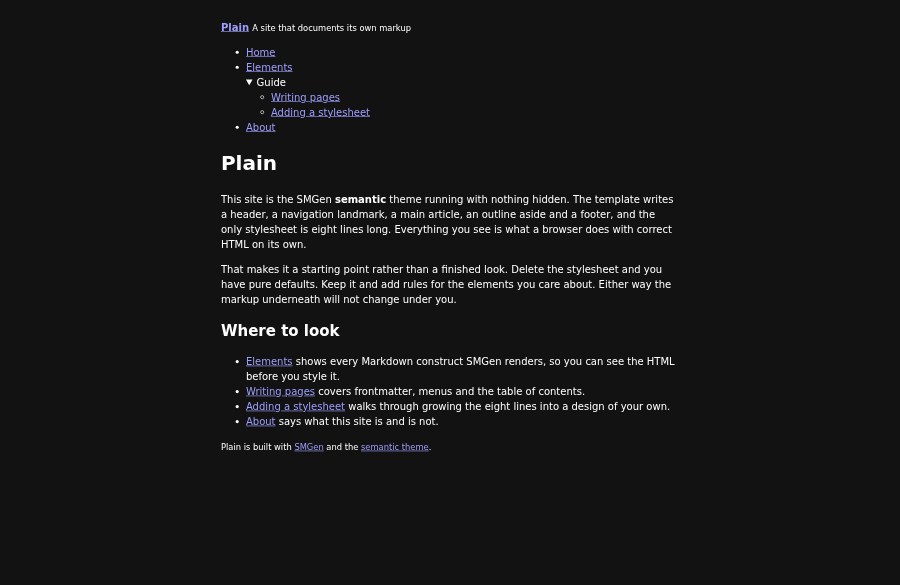
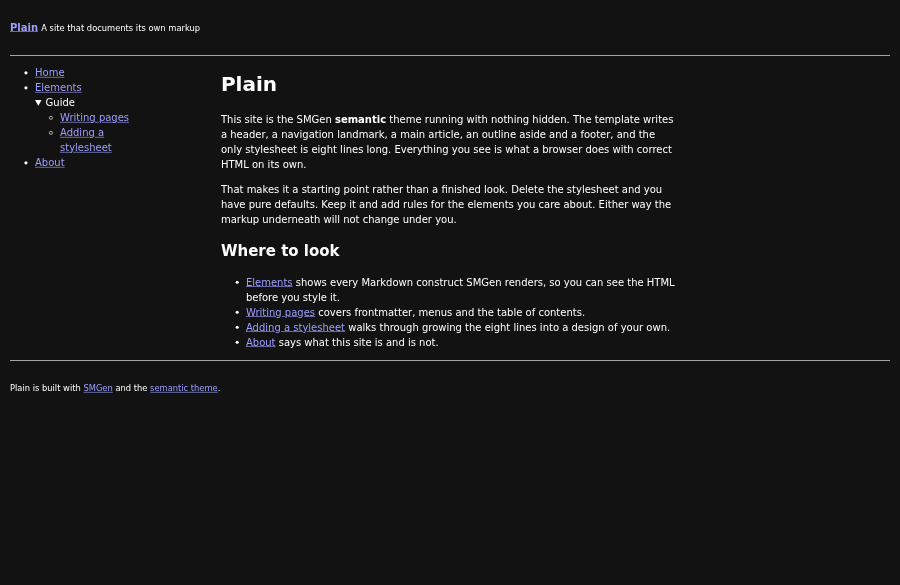
Lay the semantic theme out in three columns

diff --git a/themes/semantic/static/base.css b/themes/semantic/static/base.css
@@ -1,7 +1,19 @@
-/* Plain: the whole stylesheet. Delete it for pure browser defaults. */
+/* Plain: the whole stylesheet. Delete it and the page still reads, top to bottom. */
 :root { color-scheme: light dark; }
-body { max-width: 72ch; margin: 0 auto; padding: 1rem; line-height: 1.5; font-family: system-ui, sans-serif; }
+body { margin: 0 auto; max-width: 90rem; padding: 0 1rem; line-height: 1.5; font-family: system-ui, sans-serif; }
+body > header { padding: 1rem 0; border-bottom: 1px solid; }
+body > footer { padding: 1rem 0; border-top: 1px solid; }
+main { max-width: 72ch; }
 img, svg, video { max-width: 100%; height: auto; }
 pre { overflow: auto; }
-td, th { padding: 0.25em 0.6em; border: 1px solid; }
 table { border-collapse: collapse; }
+td, th { padding: 0.25em 0.6em; border: 1px solid; }
+@media (min-width: 64rem) {
+  body { display: grid; grid-template-columns: 14rem minmax(0, 1fr) 14rem; grid-template-areas: "header header header" "nav main aside" "footer footer footer"; column-gap: 2rem; }
+  body > header { grid-area: header; }
+  body > nav { grid-area: nav; }
+  main { grid-area: main; justify-self: center; width: 100%; }
+  body > aside { grid-area: aside; }
+  body > footer { grid-area: footer; }
+  body > nav, body > aside { position: sticky; top: 0; align-self: start; max-height: 100vh; overflow: auto; }
+}

diff --git a/themes/semantic/templates/page.php b/themes/semantic/templates/page.php
@@ -1,10 +1,12 @@
 <?php
 
 /**
- * Renders a page as plain semantic HTML: header with the site menu, main with
- * the article and breadcrumbs, an aside for the outline, and a footer. The
- * template adds no class names of its own; the only classes on the page come
- * from SMGen's menu and breadcrumb helpers.
+ * Renders a page as plain semantic HTML in the classic three-column shape:
+ * header across the top, nav on the left, main with the article and
+ * breadcrumbs in the middle, an aside with the outline on the right, and a
+ * footer across the bottom. The stylesheet places them on a grid; without it
+ * they stack in reading order. The template adds no class names of its own;
+ * the only classes on the page come from SMGen's menu and breadcrumb helpers.
  */
 
 $leftBarShow = $frontmatter['leftBarShow'] ?? true;
@@ -42,24 +44,24 @@ $endfor$
 <body>
 	<header>
 		<p><a href="<?=escapeHtml(resolveAssetUrl('/'))?>"><strong><?=escapeHtml(getConf('PRODUCT_NAME'))?></strong></a><?php if(getConf('TAGLINE')): ?> <small><?=escapeHtml(getConf('TAGLINE'))?></small><?php endif; ?></p>
-		<?php if($leftBarShow && menuRegionExists('header')): ?>
-		<nav aria-label="Site">
-			<?php renderMenuRegion('header'); ?>
-		</nav>
-		<?php endif; ?>
 	</header>
+	<?php if($leftBarShow && menuRegionExists('header')): ?>
+	<nav aria-label="Site">
+		<?php renderMenuRegion('header'); ?>
+	</nav>
+	<?php endif; ?>
 	<main id="content">
 		<article>
 			<?php renderBreadcrumbs(['menu' => 'site']); ?>
 			$body$
 		</article>
-		$if(toc)$
-		<aside aria-label="On this page">
-			<h2>On this page</h2>
-			${toc}
-		</aside>
-		$endif$
 	</main>
+	$if(toc)$
+	<aside aria-label="On this page">
+		<h2>On this page</h2>
+		${toc}
+	</aside>
+	$endif$
 	<footer>
 		<p><small><?=escapeHtml(getConf('PRODUCT_NAME'))?> is built with <a href="https://seanmorris.github.io/smgen/">SMGen</a> and the <a href="https://seanmorris.github.io/smgen-extras/themes.html#semantic">semantic theme</a>.</small></p>
 	</footer>

diff --git a/pages/index.md b/pages/index.md
@@ -38,7 +38,7 @@ jsonld:
 <li><a href="themes/journal/" target="_blank" rel="noopener noreferrer"><img class="preview preview--dark" src="previews/theme-journal-dark.png" width="900" height="585" alt="Commonplace journal home page" loading="lazy"><img class="preview preview--light" src="previews/theme-journal-light.png" width="900" height="585" alt="Commonplace journal home page" loading="lazy"><span class="preview-body"><strong>Journal</strong><span>Dated entries listed from their frontmatter, topic pages and an RSS feed. Shown as Commonplace.</span><small class="package">smgen-theme-journal</small></span></a></li>
 <li><a href="themes/portfolio/" target="_blank" rel="noopener noreferrer"><img class="preview preview--dark" src="previews/theme-portfolio-dark.png" width="900" height="585" alt="Halden Bindery portfolio home page" loading="lazy"><img class="preview preview--light" src="previews/theme-portfolio-light.png" width="900" height="585" alt="Halden Bindery portfolio home page" loading="lazy"><span class="preview-body"><strong>Portfolio</strong><span>A statement, a grid of work with drawn covers, and project pages with a facts strip. Shown as Halden Bindery.</span><small class="package">smgen-theme-portfolio</small></span></a></li>
 <li><a href="themes/landing/" target="_blank" rel="noopener noreferrer"><img class="preview preview--dark" src="previews/theme-landing-dark.png" width="900" height="585" alt="Tidewatch landing page" loading="lazy"><img class="preview preview--light" src="previews/theme-landing-light.png" width="900" height="585" alt="Tidewatch landing page" loading="lazy"><span class="preview-body"><strong>Landing</strong><span>A one-page product site whose hero, features, plans and FAQ are YAML in the front page. Shown as Tidewatch.</span><small class="package">smgen-theme-landing</small></span></a></li>
-<li><a href="themes/semantic/" target="_blank" rel="noopener noreferrer"><img class="preview preview--dark" src="previews/theme-semantic-dark.png" width="900" height="585" alt="Plain semantic site home page" loading="lazy"><img class="preview preview--light" src="previews/theme-semantic-light.png" width="900" height="585" alt="Plain semantic site home page" loading="lazy"><span class="preview-body"><strong>Semantic</strong><span>Classless HTML and an eight-line stylesheet, with pages that show every Markdown construct. Shown as Plain.</span><small class="package">smgen-theme-semantic</small></span></a></li>
+<li><a href="themes/semantic/" target="_blank" rel="noopener noreferrer"><img class="preview preview--dark" src="previews/theme-semantic-dark.png" width="900" height="585" alt="Plain semantic site home page" loading="lazy"><img class="preview preview--light" src="previews/theme-semantic-light.png" width="900" height="585" alt="Plain semantic site home page" loading="lazy"><span class="preview-body"><strong>Semantic</strong><span>Classless three-column HTML and a twenty-line stylesheet, with pages that show every Markdown construct. Shown as Plain.</span><small class="package">smgen-theme-semantic</small></span></a></li>
 <li class="preview-cta"><a href="themes.html"><span class="preview-body"><strong>Pick one</strong><span>The Themes guide walks through the command, what each theme contains, and how to make your own.</span></span></a></li>
 </ul>
 </section>

diff --git a/themes/semantic/pages/guide/styling.md b/themes/semantic/pages/guide/styling.md
@@ -1,6 +1,6 @@
 ---
 title: Adding a stylesheet
-description: How to grow the eight-line stylesheet into a design of your own.
+description: How to grow the twenty-line stylesheet into a design of your own.
 menus:
   site:
     weight: 20
@@ -12,17 +12,33 @@ menus:
 
 ```css
 :root { color-scheme: light dark; }
-body { max-width: 72ch; margin: 0 auto; padding: 1rem; line-height: 1.5; font-family: system-ui, sans-serif; }
+body { margin: 0 auto; max-width: 90rem; padding: 0 1rem; line-height: 1.5; font-family: system-ui, sans-serif; }
+body > header { padding: 1rem 0; border-bottom: 1px solid; }
+body > footer { padding: 1rem 0; border-top: 1px solid; }
+main { max-width: 72ch; }
 img, svg, video { max-width: 100%; height: auto; }
 pre { overflow: auto; }
-td, th { padding: 0.25em 0.6em; border: 1px solid; }
 table { border-collapse: collapse; }
+td, th { padding: 0.25em 0.6em; border: 1px solid; }
+@media (min-width: 64rem) {
+  body { display: grid; grid-template-columns: 14rem minmax(0, 1fr) 14rem; grid-template-areas: "header header header" "nav main aside" "footer footer footer"; column-gap: 2rem; }
+  body > header { grid-area: header; }
+  body > nav { grid-area: nav; }
+  main { grid-area: main; justify-self: center; width: 100%; }
+  body > aside { grid-area: aside; }
+  body > footer { grid-area: footer; }
+  body > nav, body > aside { position: sticky; top: 0; align-self: start; max-height: 100vh; overflow: auto; }
+}
 ```
 
-The first line is the one that matters. `color-scheme: light dark` tells the
+The first rule is the one that matters. `color-scheme: light dark` tells the
 browser to render its default colours in whichever scheme the visitor
 prefers, so the site is already light and dark without a single colour
-declared.
+declared. The media query at the end is the layout: above 64rem the body
+becomes a grid with the navigation on the left, the article in the middle and
+the outline on the right, and the two side columns stick while the article
+scrolls. Below that width the rule does not apply and the landmarks stack in
+source order, which is also what you get with no stylesheet at all.
 
 ## Start from the landmarks
 
@@ -30,10 +46,11 @@ The template emits these elements and nothing else of its own:
 
 | Element | Purpose |
 | --- | --- |
-| `header` | Site name, tagline, and `nav[aria-label="Site"]` |
+| `body > header` | Site name and tagline |
+| `body > nav[aria-label="Site"]` | The site menu |
 | `main > article` | Breadcrumbs, then the page body |
-| `main > aside[aria-label="On this page"]` | The outline, when the page has one |
-| `footer` | The colophon |
+| `body > aside[aria-label="On this page"]` | The outline, when the page has one |
+| `body > footer` | The colophon |
 
 Style those by element. Class names appear only inside the menu
 (`.menu`, `.menu--tree`, `details[data-id-path]`, `a[aria-current="page"]`)
@@ -53,4 +70,4 @@ beside the first.
 ## Or delete it
 
 Remove the file and the `STYLES` entry and the site falls back to pure browser
-defaults. The pages stay readable; they just run edge to edge.
+defaults. The pages stay readable in one column; they just run edge to edge.

diff --git a/themes/semantic/README.md b/themes/semantic/README.md
@@ -1,9 +1,11 @@
 # smgen-theme-semantic
 
 An [SMGen](https://seanmorris.github.io/smgen/) theme with almost no CSS. The
-template writes clean, classless HTML (`header`, `nav`, `main > article`,
-`aside`, `footer`), the stylesheet is eight lines long, and the sample pages
-show every Markdown construct so you can see the markup you will be styling.
+template writes clean, classless HTML in the classic three-column shape
+(`header`, `nav`, `main > article`, `aside`, `footer`), the stylesheet is
+twenty lines long and most of it is the grid that places those columns, and
+the sample pages show every Markdown construct so you can see the markup you
+will be styling.
 
 ```bash
 npm create smgen-site@latest my-site -- --theme semantic
@@ -12,8 +14,9 @@ npm create smgen-site@latest my-site -- --theme semantic
 ## What you get
 
 - `templates/page.php`: one template for every page.
-- `static/base.css`: colour scheme, a reading measure, and table borders.
-  Delete it for pure browser defaults.
+- `static/base.css`: the three-column grid on wide screens, colour scheme, a
+  reading measure, and table borders. Delete it and the landmarks stack in
+  reading order with pure browser defaults.
 - `pages/`: a home page, an elements page, two short guides, and an about
   page. Replace them with your own.
 - `.smgen.yaml`: the site menu is SMGen's tree renderer over `pages/`, so

diff --git a/themes/semantic/pages/index.md b/themes/semantic/pages/index.md
@@ -12,8 +12,10 @@ menus:
 
 This site is the SMGen **semantic** theme running with nothing hidden. The
 template writes a header, a navigation landmark, a main article, an outline
-aside and a footer, and the only stylesheet is eight lines long. Everything
-you see is what a browser does with correct HTML on its own.
+aside and a footer, in that order, and the only stylesheet is twenty lines
+long: on a wide screen it places them as the classic three columns, and on
+a narrow one it does nothing at all. Everything else you see is what a
+browser does with correct HTML on its own.
 
 That makes it a starting point rather than a finished look. Delete the
 stylesheet and you have pure defaults. Keep it and add rules for the elements
@@ -25,6 +27,6 @@ you care about. Either way the markup underneath will not change under you.
   so you can see the HTML before you style it.
 - [Writing pages](guide/writing.html) covers frontmatter, menus and the
   table of contents.
-- [Adding a stylesheet](guide/styling.html) walks through growing the eight
+- [Adding a stylesheet](guide/styling.html) walks through growing the twenty
   lines into a design of your own.
 - [About](about.html) says what this site is and is not.

diff --git a/README.md b/README.md
@@ -14,7 +14,7 @@ npm create smgen-site@latest my-site -- --theme journal
 - [`smgen-theme-journal`](themes/journal): dated entries listed from frontmatter, topic pages and an RSS feed.
 - [`smgen-theme-portfolio`](themes/portfolio): a statement, a grid of work with drawn covers, and project pages.
 - [`smgen-theme-landing`](themes/landing): a one-page product site edited in YAML, with pricing, changelog and privacy pages.
-- [`smgen-theme-semantic`](themes/semantic): classless HTML and an eight-line stylesheet, for building a design from nothing.
+- [`smgen-theme-semantic`](themes/semantic): classless HTML in a three-column grid and a twenty-line stylesheet, for building a design from nothing.
 - [`create-smgen-site`](themes/create-smgen-site): the scaffolder behind the command above.
 
 ## Plugins
